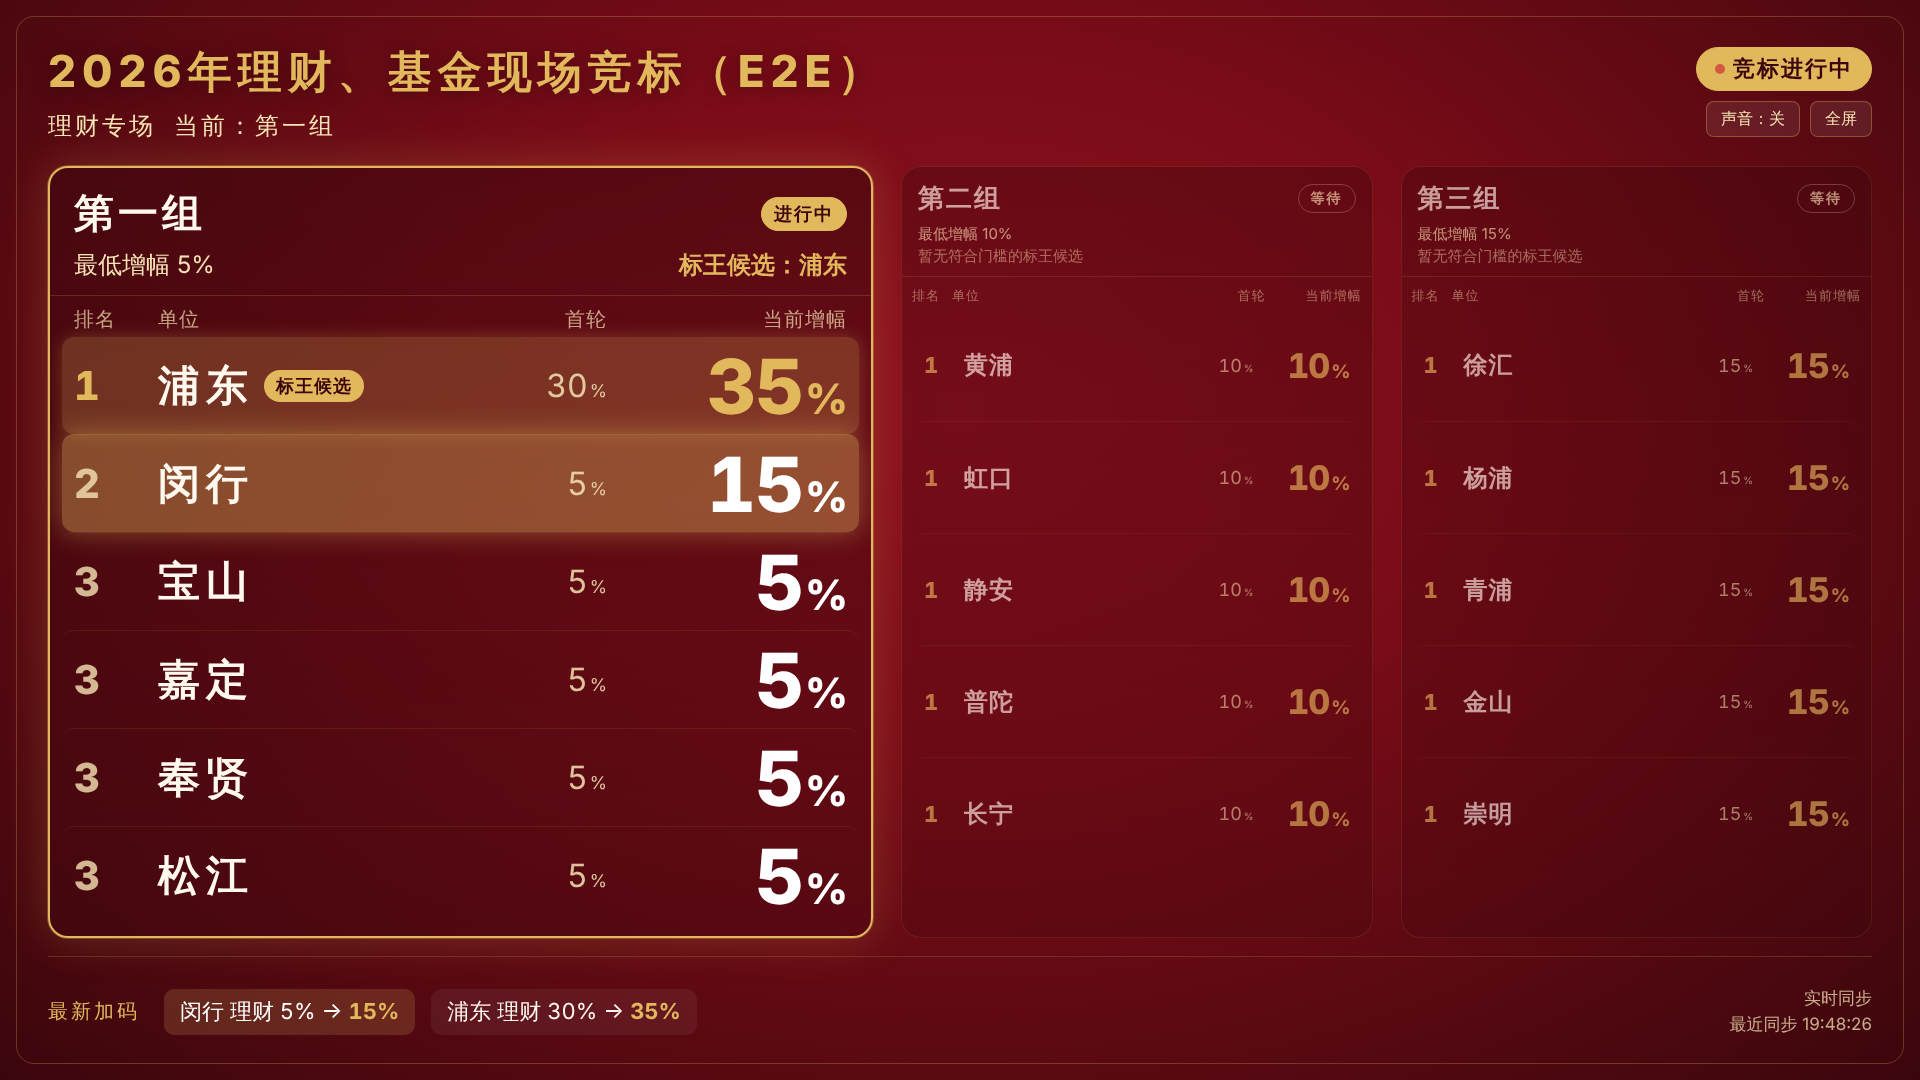
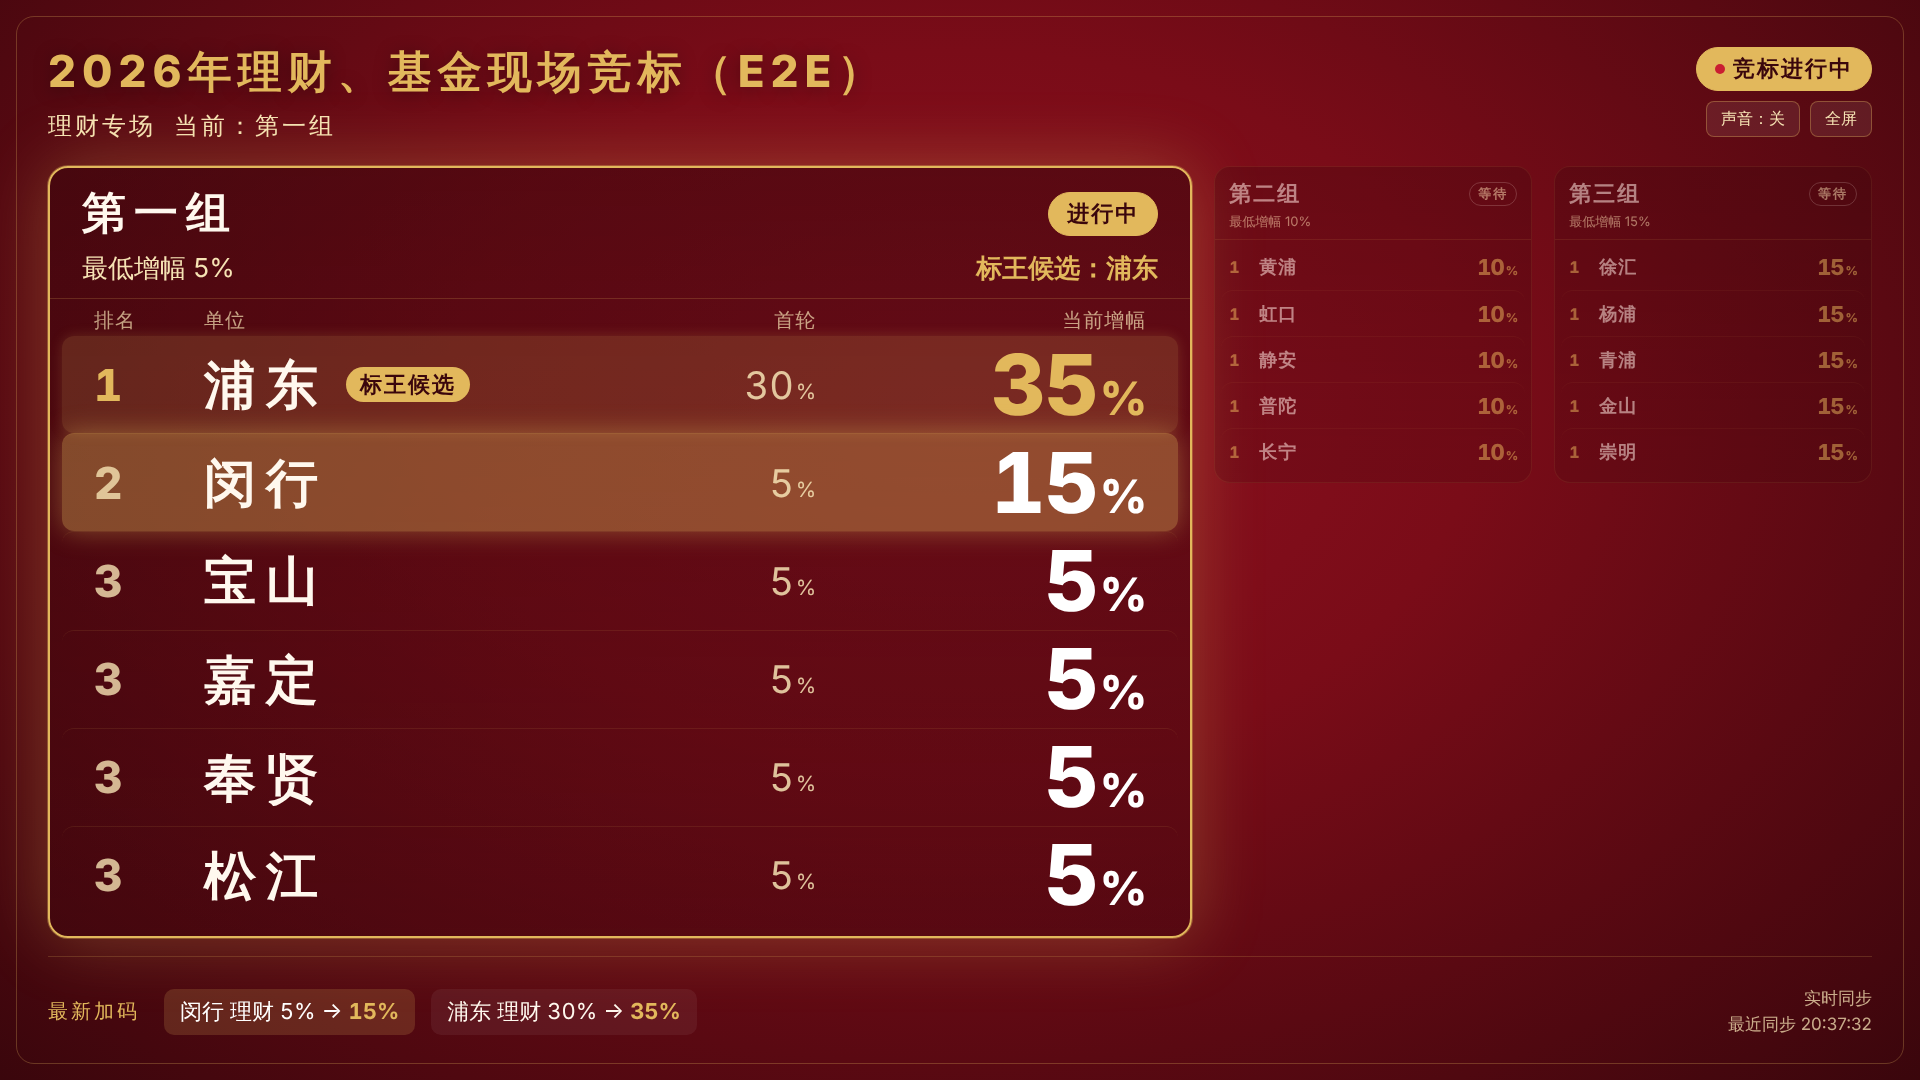
实时大屏：竞标中的组放大到约三分之二宽度，未开始/已结束的组收成紧凑小卡片
- 开放组占 3.6fr，字号进一步放大（当前增幅 84px、单位 52px），6 行完整显示
- 其余组只保留排名、单位、当前增幅，隐藏首轮列、列头与徽标，卡片高度随内容收缩，亮度降至 50%

Claude-Session: https://claude.ai/code/session_01U6Pgri5g78g3NTCDgE6cee

diff --git a/apps/web/src/styles.css b/apps/web/src/styles.css
@@ -1399,81 +1399,112 @@ textarea {
   font-size: 14px;
 }
 
-/* 实时大屏：当前开放组放大，其余两组紧凑显示 */
+/* 实时大屏：当前开放组放大，其余两组收成紧凑小卡片 */
 .s-groups {
   transition: grid-template-columns 0.4s ease;
 }
+.s-groups.focus {
+  gap: 22px;
+}
+.s-groups.focus .s-group.open {
+  box-shadow: 0 0 0 1px rgba(226, 184, 92, 0.35), 0 0 70px rgba(226, 184, 92, 0.3);
+}
+.s-groups.focus .s-group.open .s-group-head {
+  padding: 16px 32px 12px;
+}
 .s-groups.focus .s-group.open .s-group-name {
-  font-size: 40px;
+  font-size: 44px;
+  letter-spacing: 8px;
+}
+.s-groups.focus .s-group.open .s-group-state {
+  font-size: 22px;
+  padding: 6px 18px;
 }
 .s-groups.focus .s-group.open .s-group-meta {
-  font-size: 24px;
+  font-size: 26px;
 }
 .s-groups.focus .s-group.open .s-cols,
 .s-groups.focus .s-group.open .s-row {
-  grid-template-columns: 84px 1fr 150px 240px;
+  grid-template-columns: 110px 1fr 200px 330px;
 }
 .s-groups.focus .s-group.open .s-cols {
   font-size: 20px;
+  padding: 8px 44px 2px;
+}
+.s-groups.focus .s-group.open .s-row {
+  padding: 0 32px;
+  min-height: 0;
 }
 .s-groups.focus .s-group.open .s-rank {
-  font-size: 40px;
+  font-size: 44px;
 }
 .s-groups.focus .s-group.open .s-unit {
-  font-size: 42px;
-  letter-spacing: 6px;
+  font-size: 52px;
+  line-height: 1.1;
+  letter-spacing: 10px;
+  gap: 18px;
 }
 .s-groups.focus .s-group.open .s-badge {
-  font-size: 18px;
-  padding: 4px 12px;
+  font-size: 22px;
+  padding: 5px 14px;
+  letter-spacing: 2px;
 }
 .s-groups.focus .s-group.open .s-first {
-  font-size: 32px;
+  font-size: 38px;
 }
 .s-groups.focus .s-group.open .s-current {
-  font-size: 76px;
+  font-size: 84px;
+  line-height: 1;
+}
+
+/* 非开放组：只留排名、单位、当前增幅，卡片高度随内容收缩 */
+.s-groups.focus .s-group.dim {
+  opacity: 0.5;
+  align-self: start;
+  border-radius: 16px;
 }
 .s-groups.focus .s-group.dim .s-group-head {
-  padding: 14px 16px 10px;
+  padding: 12px 14px 8px;
 }
 .s-groups.focus .s-group.dim .s-group-name {
-  font-size: 26px;
+  font-size: 22px;
   letter-spacing: 2px;
 }
 .s-groups.focus .s-group.dim .s-group-state {
-  font-size: 14px;
+  font-size: 13px;
+  padding: 2px 8px;
 }
 .s-groups.focus .s-group.dim .s-group-meta {
-  font-size: 15px;
+  margin-top: 4px;
+  font-size: 13px;
   flex-direction: column;
   gap: 2px;
 }
+.s-groups.focus .s-group.dim .s-leader.none,
 .s-groups.focus .s-group.dim .s-cols,
-.s-groups.focus .s-group.dim .s-row {
-  grid-template-columns: 40px 1fr 64px 96px;
-  padding-left: 10px;
-  padding-right: 10px;
+.s-groups.focus .s-group.dim .s-first,
+.s-groups.focus .s-group.dim .s-badge {
+  display: none;
 }
-.s-groups.focus .s-group.dim .s-cols {
-  font-size: 13px;
+.s-groups.focus .s-group.dim .s-rows {
+  flex: none;
+  padding: 4px 6px 8px;
+}
+.s-groups.focus .s-group.dim .s-row {
+  flex: none;
+  height: 46px;
+  grid-template-columns: 30px 1fr auto;
+  padding: 0 8px;
 }
 .s-groups.focus .s-group.dim .s-rank {
-  font-size: 22px;
+  font-size: 16px;
 }
 .s-groups.focus .s-group.dim .s-unit {
-  font-size: 24px;
-  letter-spacing: 1px;
-  gap: 6px;
-}
-.s-groups.focus .s-group.dim .s-badge {
-  font-size: 11px;
-  padding: 2px 6px;
-}
-.s-groups.focus .s-group.dim .s-first {
   font-size: 18px;
+  letter-spacing: 1px;
 }
 .s-groups.focus .s-group.dim .s-current {
-  font-size: 34px;
+  font-size: 22px;
 }
 
 /* ---------------------------------------------------------------- 模拟金山文档（演练用） */

diff --git a/apps/web/src/pages/screen/ScreenPage.tsx b/apps/web/src/pages/screen/ScreenPage.tsx
@@ -272,8 +272,8 @@ function LiveScreen({ eventId, project }: { eventId: string; project: ProjectCod
       ) : (
         <div
           className={`s-groups ${openGroup ? 'focus' : ''}`}
-          // 当前开放组放大：约占一半宽度，其余两组缩窄并降低亮度
-          style={openGroup ? { gridTemplateColumns: data.groups.map((g) => (g.status === 'OPEN' ? '1.75fr' : '1fr')).join(' ') } : undefined}
+          // 当前开放组放大：约占三分之二宽度，其余两组收窄成紧凑小卡片并降低亮度
+          style={openGroup ? { gridTemplateColumns: data.groups.map((g) => (g.status === 'OPEN' ? '3.6fr' : '1fr')).join(' ') } : undefined}
         >
           {data.groups.map((g) => (
             <LiveGroup key={g.groupNo} g={g} flash={flash} anyOpen={!!openGroup} />
